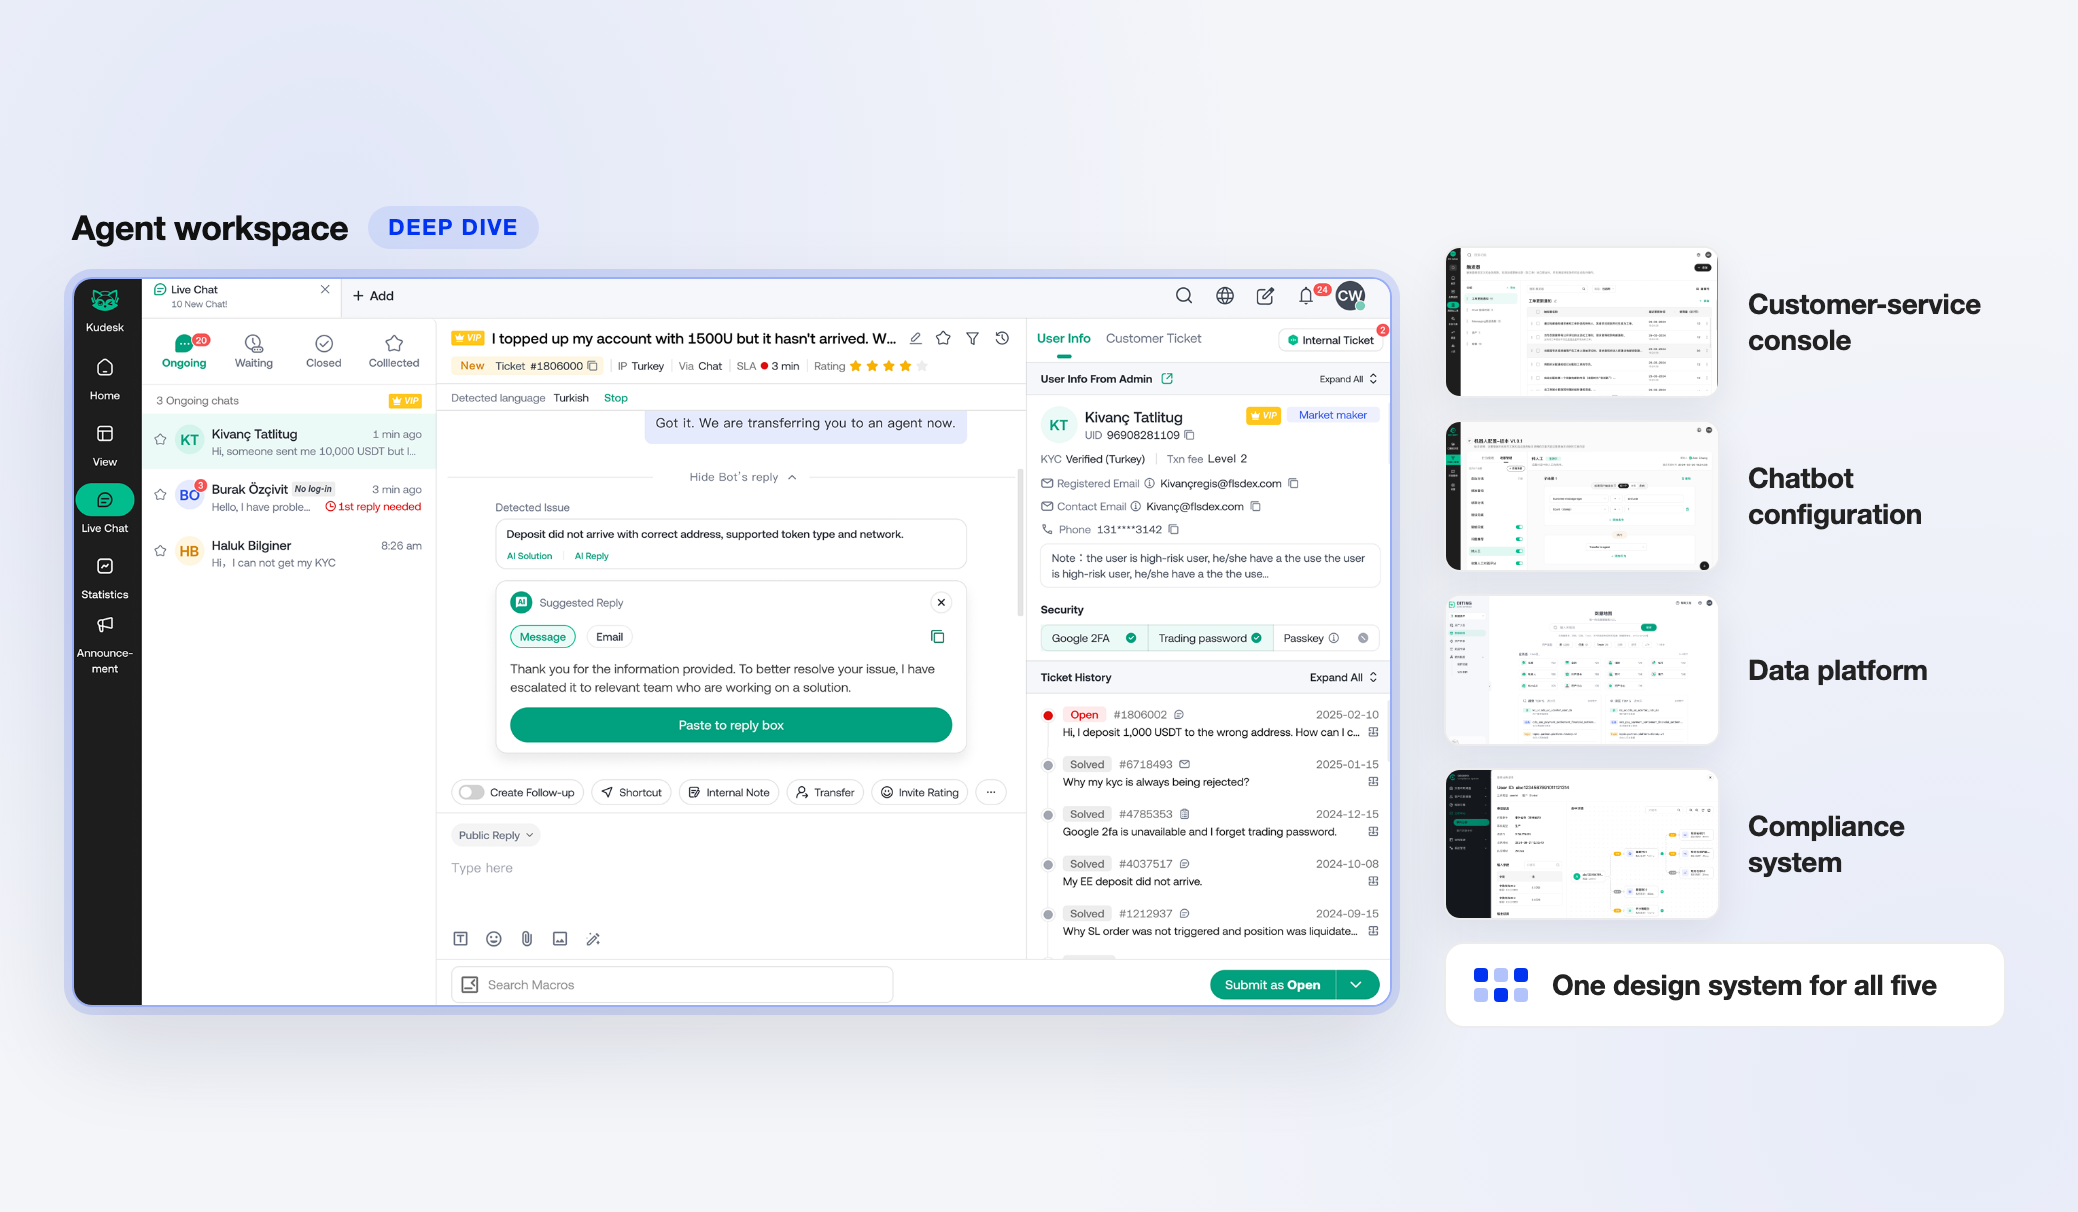
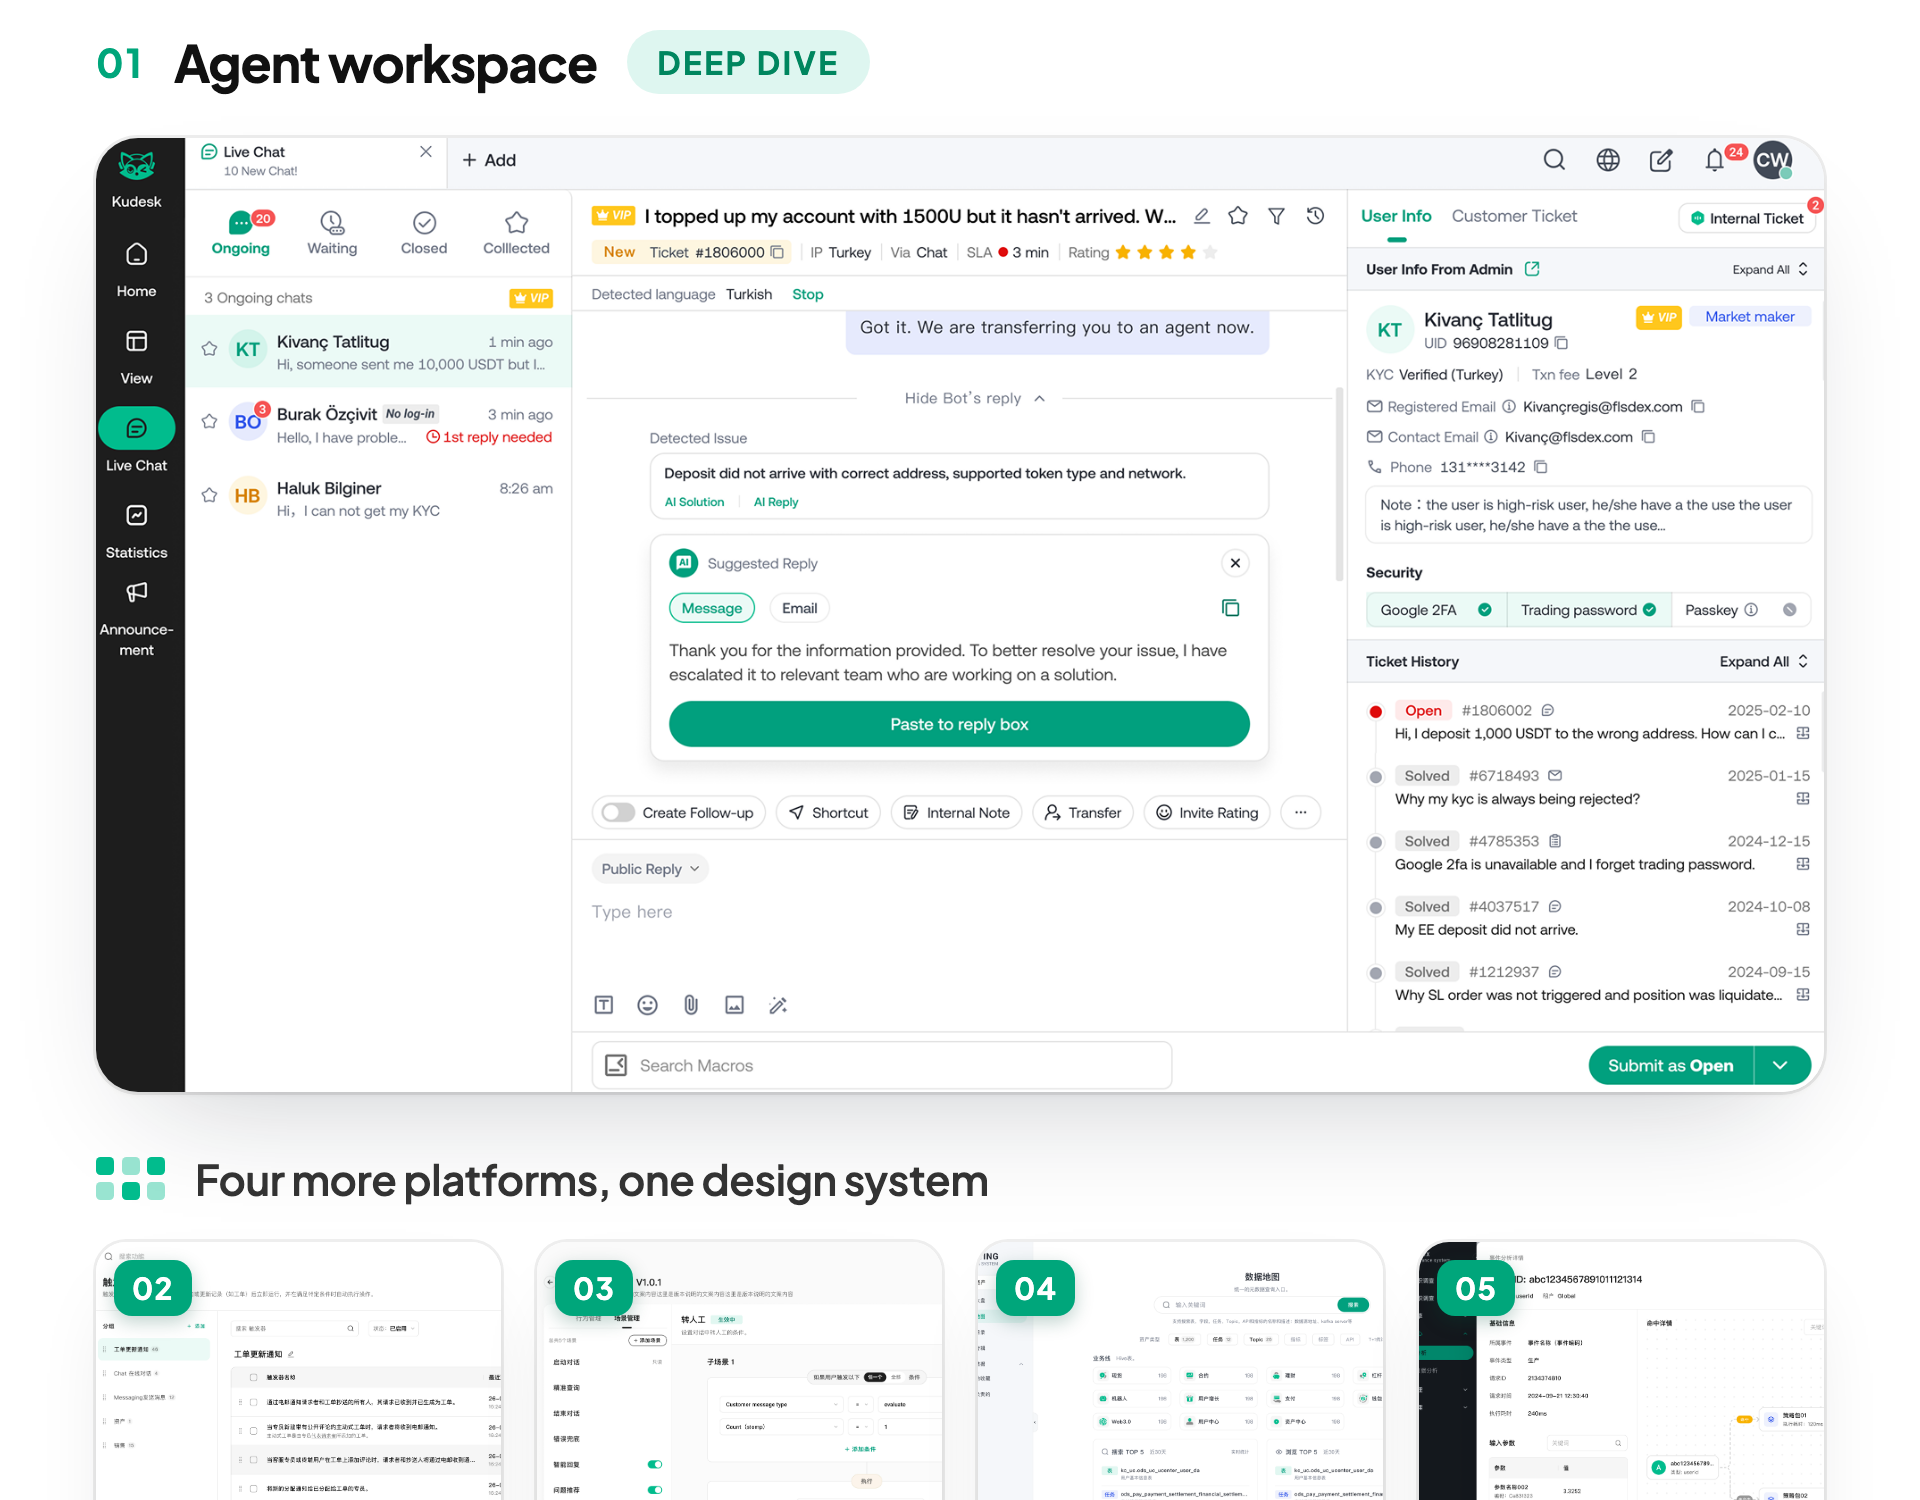
Align the KuCoin internal platforms card with its case study: vertical hero, matching cover and copy; add room above the KYB card labels.

diff --git a/index.html b/index.html
@@ -83,7 +83,7 @@
                     </a>
 
                     <a href="kyb-global.html" class="card" data-tags="featured,crypto" data-featured-order="3">
-                        <img class="coverimg" src="resources/images-kyb/cover_img.png" alt="Institutional onboarding flow with document checklist and guided uploads">
+                        <img class="coverimg" src="resources/images-kyb/cover-card.png?v=1" alt="Institutional onboarding flow with document checklist and guided uploads">
                         <div class="card-description">
                             <div class="caption">2025 <span class="dot" aria-hidden="true"></span> KuCoin</div>
                             <div class="card-title">Institutional KYB onboarding redesign</div>
@@ -160,11 +160,11 @@
                     </a>
 
                     <a href="internal-system.html" class="card" data-tags="featured,crypto,leadership" data-featured-order="4">
-                        <img class="coverimg" src="resources/images-internal-system/cover-featured.png?v=3" alt="The redesigned agent workspace with its AI suggested-reply card enlarged, in front of the customer-service console" loading="lazy">
+                        <img class="coverimg" src="resources/images-internal-system/cover-featured.png?v=5" alt="The redesigned agent workspace beside the four other internal platforms: customer-service console, chatbot configuration, data platform and compliance system" loading="lazy">
                         <div class="card-description">
                             <div class="caption">2024–25 <span class="dot" aria-hidden="true"></span> KuCoin</div>
-                            <div class="card-title">Agent workspace with AI assistance, for 200+ support agents</div>
-                            <p class="description">Led 3 designers across 5 internal platforms. Redesigned the agent workspace after usability testing, with AI reply suggestions agents review before sending.</p>
+                            <div class="card-title">Internal platforms — 5 tools, one design system</div>
+                            <p class="description">Led 3 designers across 5 internal platforms and a shared design system, then redesigned the agent workspace for 200+ support agents.</p>
                             <div class="mix">
                                 <div class="mix__bar">
                                     <span class="mix__seg mix__seg--design" style="flex-grow:50"><span class="mix__tip" role="tooltip"><span class="mix__tip-title">Design 50%</span>Early concepts, then screens revised and ready for engineering.</span></span>
@@ -175,11 +175,11 @@
                                     <li><span class="mix__dot mix__seg--validate" aria-hidden="true"></span><span class="mix__term">Usability test</span> <span class="mix__pct">50%</span></li>
                                 </ul>
                             </div>
-                            <div class="outcome">80% of observed agents missed that they had to claim a ticket first; the redesign was prepared for a 20-agent pilot.</div>
+                            <div class="outcome">Five platforms and a design system in six months; the agent workspace redesign was ready for a 20-agent pilot.</div>
                             <div class="tags">
                                 <span class="tag">Team lead</span>
+                                <span class="tag">Design system</span>
                                 <span class="tag">AI assistance</span>
-                                <span class="tag">Customer service</span>
                             </div>
                         </div>
                     </a>

diff --git a/internal-system.html b/internal-system.html
@@ -778,7 +778,7 @@
                 </dl>
             </div>
             <div class="title-img">
-                <img src="resources/images-internal-system/cover-programme.png?v=1" width="2078" height="1212" alt="The redesigned agent workspace beside the four other platforms: customer-service console, chatbot configuration, data platform and compliance system, all on one design system">
+                <img src="resources/images-internal-system/cover-programme.png?v=4" width="1920" height="1500" alt="The redesigned agent workspace beside the four other platforms: customer-service console, chatbot configuration, data platform and compliance system, all on one design system">
             </div>
         </div>
     </div>
